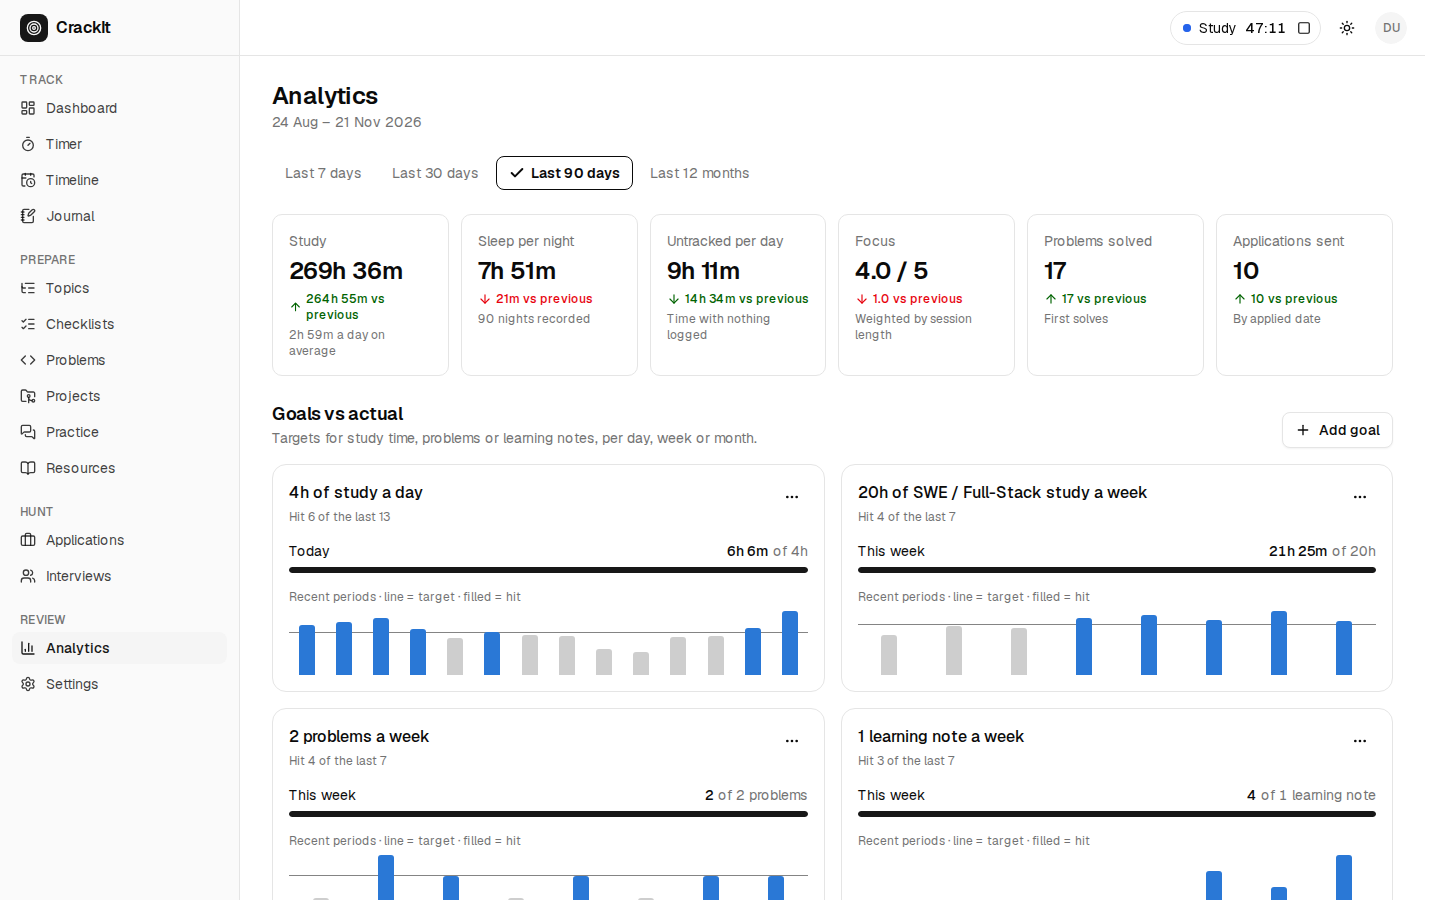
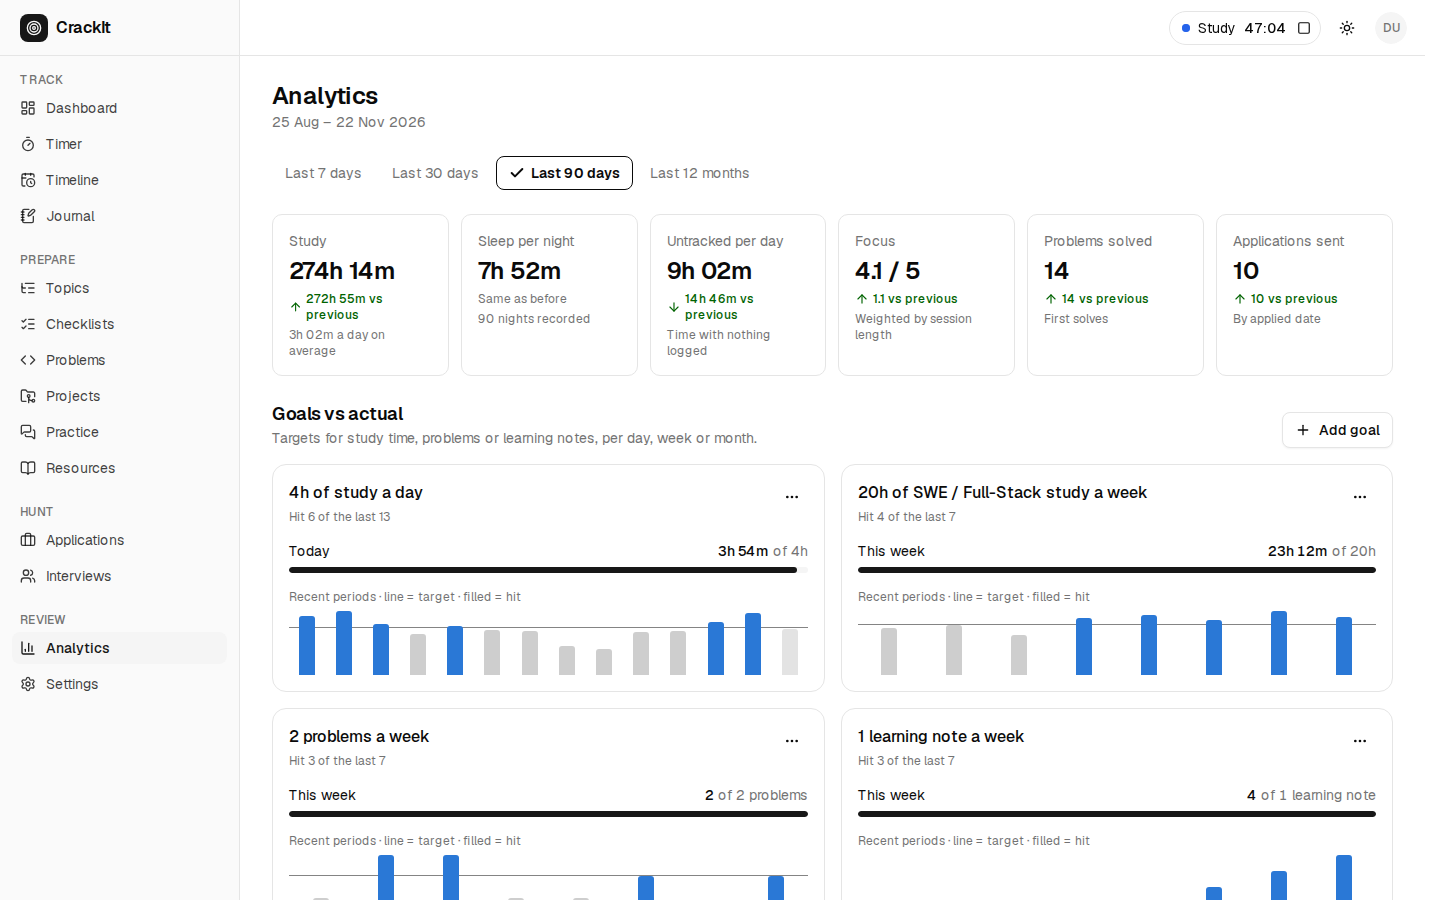
feat(tracks): replace the University Lecturer template with Data Science / ML
The second starter template is now "Data Science / ML" (statistics, machine
learning, deep learning, SQL & data wrangling, ML system design, case
studies). Guest accounts and the README demo data use it too: no lecturer
track, teaching demos, viva rounds or university applications any more.
Existing users keep any lecturer track they already added.

Screenshots regenerated from the new demo data.

diff --git a/prisma/demo-data.ts b/prisma/demo-data.ts
@@ -14,7 +14,7 @@ import { seedDefaultsForUser } from "./seed-defaults";
 /**
  * Fills an account with ~3 months of realistic, made-up prep data: time entries (with a timer
  * running now), journal, learning notes, problems, practice, applications and interviews,
- * resources, habits, projects and goals. All names (companies, universities) are fictional.
+ * resources, habits, projects and goals. All company names are fictional.
  * Dates are relative to `now`, so the data always looks current.
  *
  * Used by guest accounts (`auth/guest.ts`) and the README screenshots. Expects a user with no
@@ -74,7 +74,7 @@ async function loadContext(prisma: PrismaClient, userId: string, timezone: strin
     }),
   ]);
   const swe = tracks.find((t) => t.name === "SWE / Full-Stack")!;
-  const lecturer = tracks.find((t) => t.name === "University Lecturer")!;
+  const ds = tracks.find((t) => t.name === "Data Science / ML")!;
   const leaves = topics.filter((t) => t.children.length === 0);
 
   /** A local wall-clock time on a date key (minutes after midnight, may be < 0 or ≥ 24h). */
@@ -94,11 +94,11 @@ async function loadContext(prisma: PrismaClient, userId: string, timezone: strin
     at,
     ...random(42),
     swe,
-    lecturer,
+    ds,
     type: (name: string) => types.find((t) => t.name === name)!.id,
     leaves,
     sweLeaves: leaves.filter((t) => t.trackId === swe.id),
-    lecturerLeaves: leaves.filter((t) => t.trackId === lecturer.id),
+    dsLeaves: leaves.filter((t) => t.trackId === ds.id),
     dsaLeaves: leaves.filter((t) => t.parent?.name === "Data Structures & Algorithms"),
   };
 }
@@ -143,10 +143,10 @@ async function seedTime(prisma: PrismaClient, ctx: Ctx, today: string) {
       ...extra,
     });
   };
-  const study = (key: string, from: number, to: number, lecturer = false) => {
+  const study = (key: string, from: number, to: number, ds = false) => {
     add(key, from, to, "Study", {
-      trackId: (lecturer ? ctx.lecturer : ctx.swe).id,
-      topicId: ctx.pickOne(lecturer ? ctx.lecturerLeaves : ctx.sweLeaves).id,
+      trackId: (ds ? ctx.ds : ctx.swe).id,
+      topicId: ctx.pickOne(ds ? ctx.dsLeaves : ctx.sweLeaves).id,
       focusRating: ctx.between(3, 5),
     });
   };
@@ -197,7 +197,7 @@ async function seedJournal(prisma: PrismaClient, ctx: Ctx, today: string) {
   const plans = [
     "Two graph problems, then finish the caching chapter.",
     "Mock system design in the evening; review yesterday's notes.",
-    "Teaching demo rehearsal + one DP problem.",
+    "A/B testing chapter + one DP problem.",
     "Revise SQL indexing, apply to two roles.",
   ];
   const wins = [
@@ -265,9 +265,9 @@ async function seedJournal(prisma: PrismaClient, ctx: Ctx, today: string) {
       ["dsa", "graphs"],
     ],
     [
-      "Constructive alignment",
-      "Learning outcomes, activities and assessment should all point at the same goal.",
-      ["teaching"],
+      "Precision vs recall",
+      "Precision: how many flagged are right. Recall: how many right ones were flagged. F1 balances them.",
+      ["ml"],
     ],
     [
       "HTTP caching",
@@ -287,7 +287,7 @@ async function seedJournal(prisma: PrismaClient, ctx: Ctx, today: string) {
       data: {
         userId: ctx.userId,
         date: dateKeyToDb(learnedOn),
-        trackId: noteTags.includes("teaching") ? ctx.lecturer.id : ctx.swe.id,
+        trackId: noteTags.includes("ml") ? ctx.ds.id : ctx.swe.id,
         title,
         contentMd: content,
         confidence: ctx.between(2, 5),
@@ -354,14 +354,14 @@ async function seedPractice(prisma: PrismaClient, ctx: Ctx, today: string) {
     ["Tell me about a time you disagreed with a teammate.", false],
     ["How would you design a URL shortener?", false],
     ["Explain the event loop in Node.js.", false],
-    ["Why do you want to teach at this university?", true],
-    ["How do you assess whether students met the learning outcomes?", true],
+    ["How would you detect and handle data leakage in a model?", true],
+    ["Design an A/B test for a new checkout button.", true],
     ["What happens when you type a URL into the browser?", false],
   ];
   await prisma.practiceQuestion.createMany({
-    data: questions.map(([question, lecturer], n) => ({
+    data: questions.map(([question, ds], n) => ({
       userId: ctx.userId,
-      trackId: lecturer ? ctx.lecturer.id : ctx.swe.id,
+      trackId: ds ? ctx.ds.id : ctx.swe.id,
       question,
       answerMd: "Draft answer: structure it, give one concrete example, close with the result.",
       reviewStage: ctx.between(0, 3),
@@ -370,19 +370,19 @@ async function seedPractice(prisma: PrismaClient, ctx: Ctx, today: string) {
   });
 
   const talks = [
+    "Portfolio walkthrough: Expense Tracker",
     "Intro to Graph Algorithms",
-    "Teaching Demo: Recursion",
+    "Churn prediction model: results",
     "Database Normalization",
-    "Research talk: Code Review Practices",
-    "Teaching Demo: Big-O Notation",
-    "Operating Systems: Scheduling",
-    "Teaching Demo: Hash Tables",
-    "Intro to Networking",
+    "Tech talk: Code Review Practices",
+    "A/B test readout: onboarding flow",
+    "System design: URL shortener",
+    "Capstone demo: recommendation engine",
   ];
   await prisma.presentation.createMany({
     data: talks.map((title, n) => ({
       userId: ctx.userId,
-      trackId: ctx.lecturer.id,
+      trackId: n % 2 === 0 ? ctx.swe.id : ctx.ds.id,
       title,
       date: dateKeyToDb(shiftDateKey(today, -(talks.length - n) * 8)),
       durationMin: ctx.between(15, 30),
@@ -396,12 +396,12 @@ async function seedPractice(prisma: PrismaClient, ctx: Ctx, today: string) {
     ["SYSTEM_DESIGN", 3],
     ["BEHAVIORAL", 4],
     ["TECHNICAL", 4],
-    ["TEACHING_DEMO", 4],
+    ["SCREENING", 4],
   ];
   await prisma.mockInterview.createMany({
     data: mocks.map(([type, score], n) => ({
       userId: ctx.userId,
-      trackId: type === "TEACHING_DEMO" ? ctx.lecturer.id : ctx.swe.id,
+      trackId: type === "SCREENING" ? ctx.ds.id : ctx.swe.id,
       date: dateKeyToDb(shiftDateKey(today, -(mocks.length - n) * 10)),
       partner: ctx.pickOne(["Peer", "Mentor", "Study group"]),
       type,
@@ -415,22 +415,22 @@ const PIPELINE: ApplicationStatus[] = ["WISHLIST", "APPLIED", "OA", "INTERVIEWIN
 
 async function seedJobs(prisma: PrismaClient, ctx: Ctx, today: string) {
   // Fictional organizations only.
-  const apps: [string, "COMPANY" | "UNIVERSITY", string, ApplicationStatus, number][] = [
-    ["Northwind Labs", "COMPANY", "Software Engineer, Backend", "OFFER", 48],
-    ["Brightpath", "COMPANY", "Full-Stack Engineer", "INTERVIEWING", 30],
-    ["Lumen Analytics", "COMPANY", "Frontend Engineer", "INTERVIEWING", 21],
-    ["Cobalt Systems", "COMPANY", "Software Engineer II", "OA", 12],
-    ["Pixelforge", "COMPANY", "React Developer", "APPLIED", 6],
-    ["Riverstone Bank", "COMPANY", "Platform Engineer", "APPLIED", 3],
-    ["Orbital Health", "COMPANY", "Full-Stack Developer", "REJECTED", 40],
-    ["Quanta Software", "COMPANY", "Backend Engineer (Node.js)", "REJECTED", 35],
-    ["Eastbridge University", "UNIVERSITY", "Lecturer, Computer Science", "INTERVIEWING", 25],
-    ["Green Valley University", "UNIVERSITY", "Lecturer, CSE", "APPLIED", 9],
-    ["Harbor AI", "COMPANY", "Software Engineer", "WISHLIST", 0],
-    ["Summit Cloud", "COMPANY", "Site Reliability Engineer", "WISHLIST", 0],
+  const apps: [string, string, ApplicationStatus, number, "swe" | "ds"][] = [
+    ["Northwind Labs", "Software Engineer, Backend", "OFFER", 48, "swe"],
+    ["Brightpath", "Full-Stack Engineer", "INTERVIEWING", 30, "swe"],
+    ["Lumen Analytics", "Data Scientist", "INTERVIEWING", 21, "ds"],
+    ["Cobalt Systems", "Software Engineer II", "OA", 12, "swe"],
+    ["Pixelforge", "React Developer", "APPLIED", 6, "swe"],
+    ["Riverstone Bank", "Platform Engineer", "APPLIED", 3, "swe"],
+    ["Orbital Health", "Full-Stack Developer", "REJECTED", 40, "swe"],
+    ["Quanta Software", "Backend Engineer (Node.js)", "REJECTED", 35, "swe"],
+    ["Eastbridge Insights", "Machine Learning Engineer", "INTERVIEWING", 25, "ds"],
+    ["Green Valley Retail", "Data Analyst", "APPLIED", 9, "ds"],
+    ["Harbor AI", "Software Engineer", "WISHLIST", 0, "swe"],
+    ["Summit Cloud", "Site Reliability Engineer", "WISHLIST", 0, "swe"],
   ];
   const userId = ctx.userId;
-  for (const [name, type, role, status, appliedDaysAgo] of apps) {
+  for (const [name, role, status, appliedDaysAgo, track] of apps) {
     // Status history: walk the pipeline up to the current (or last reached) stage.
     const reached = status === "REJECTED" ? "INTERVIEWING" : status;
     const path = PIPELINE.slice(0, PIPELINE.indexOf(reached) + 1);
@@ -447,8 +447,8 @@ async function seedJobs(prisma: PrismaClient, ctx: Ctx, today: string) {
 
     // Interviews: past rounds with results, plus an upcoming one for open applications.
     const rounds: InterviewRound[] =
-      type === "UNIVERSITY"
-        ? ["WRITTEN", "TEACHING_DEMO", "VIVA"]
+      track === "ds"
+        ? ["SCREENING", "TECHNICAL", "BEHAVIORAL"]
         : ["OA", "TECHNICAL", "SYSTEM_DESIGN", "HR"];
     const count = { OFFER: 4, INTERVIEWING: 3, REJECTED: 2, OA: 1 }[status as string] ?? 0;
     const interviews = rounds.slice(0, count).map((round, r) => {
@@ -474,12 +474,12 @@ async function seedJobs(prisma: PrismaClient, ctx: Ctx, today: string) {
       data: {
         userId,
         name,
-        type,
+        type: "COMPANY",
         location: ctx.pickOne(["Dhaka", "Remote", "Singapore", "Berlin"]),
         applications: {
           create: {
             userId,
-            trackId: type === "UNIVERSITY" ? ctx.lecturer.id : ctx.swe.id,
+            trackId: track === "ds" ? ctx.ds.id : ctx.swe.id,
             role,
             source: ctx.pickOne(["LinkedIn", "Referral", "Company site", "Job board"]),
             status,
@@ -487,8 +487,7 @@ async function seedJobs(prisma: PrismaClient, ctx: Ctx, today: string) {
               status === "WISHLIST" ? null : dateKeyToDb(shiftDateKey(today, -appliedDaysAgo)),
             deadlineOn:
               status === "WISHLIST" ? dateKeyToDb(shiftDateKey(today, ctx.between(5, 20))) : null,
-            salaryRange:
-              type === "COMPANY" ? ctx.pickOne(["$60k–80k", "$70k–90k", "$80k–100k"]) : null,
+            salaryRange: ctx.pickOne(["$60k–80k", "$70k–90k", "$80k–100k"]),
             events: { create: events },
             interviews: { create: interviews },
           },
@@ -529,14 +528,14 @@ async function seedResources(prisma: PrismaClient, ctx: Ctx, today: string) {
       status: "IN_PROGRESS",
     },
     {
-      title: "Teaching at Its Best",
-      author: "Linda B. Nilson",
+      title: "Hands-On Machine Learning",
+      author: "Aurélien Géron",
       type: "BOOK",
       unitLabel: "chapters",
-      totalUnits: 24,
+      totalUnits: 19,
       completedUnits: 5,
       status: "IN_PROGRESS",
-      trackId: ctx.lecturer.id,
+      trackId: ctx.ds.id,
     },
     {
       title: "Database Internals",
@@ -657,9 +656,9 @@ async function seedProjects(prisma: PrismaClient, ctx: Ctx) {
       },
       {
         userId: ctx.userId,
-        name: "Course scheduler",
-        description: "Constraint-based timetable generator for a university department.",
-        stack: ["Python", "OR-Tools"],
+        name: "Churn predictor",
+        description: "Predicts subscription churn from usage data, with an explainability report.",
+        stack: ["Python", "scikit-learn", "pandas"],
         status: "PLANNING",
         sortOrder: 2,
       },

diff --git a/src/modules/tracks-topics/defaults.ts b/src/modules/tracks-topics/defaults.ts
@@ -88,31 +88,31 @@ export const DEFAULT_TRACKS: DefaultTrack[] = [
     ],
   },
   {
-    name: "University Lecturer",
-    description: "Lecturer recruitment: subject depth, teaching demo, research, viva",
+    name: "Data Science / ML",
+    description: "Data scientist / ML engineer roles: statistics, ML, SQL, case studies",
     color: "#eb6834", // palette slot 2 (orange)
     weeklyTargetMinutes: 10 * 60,
     topics: [
       {
-        name: "Subject Knowledge",
-        children: leaves("Core CS Courses Revision", "Advanced Topics"),
+        name: "Statistics & Probability",
+        children: leaves("Distributions", "Hypothesis Testing", "A/B Testing"),
       },
       {
-        name: "Teaching Demo",
-        children: leaves("Lesson Planning", "Slide Preparation", "Mock Demo Practice"),
+        name: "Machine Learning",
+        children: leaves("Supervised Learning", "Model Evaluation", "Feature Engineering"),
       },
       {
-        name: "Research & Publications",
-        children: leaves("Thesis Summary", "Paper Writing", "Research Proposal"),
+        name: "Deep Learning",
+        children: leaves("Neural Network Basics", "CNNs & Transformers"),
       },
       {
-        name: "Viva / Board Questions",
-        children: leaves("Teaching Philosophy", "Subject Questions", "General & Current Affairs"),
+        name: "SQL & Data Wrangling",
+        children: leaves("Window Functions", "Pandas", "Data Cleaning"),
       },
-      { name: "Written Test Preparation" },
+      { name: "ML System Design" },
       {
-        name: "Application Documents",
-        children: leaves("Academic CV", "Teaching Statement", "Research Statement"),
+        name: "Case Studies & Product Sense",
+        children: leaves("Metrics Design", "Business Case Questions"),
       },
     ],
   },

diff --git a/src/modules/settings/service.int.test.ts b/src/modules/settings/service.int.test.ts
@@ -148,15 +148,15 @@ describe("settings", () => {
   it("adds a starter template as the user's own track, once", async () => {
     const fresh = (await createTestUser()).user.id;
     await db.track.deleteMany({ where: { userId: fresh } }); // like a new sign-up
-    expect((await addTemplateTrack(fresh, "University Lecturer")).ok).toBe(true);
+    expect((await addTemplateTrack(fresh, "Data Science / ML")).ok).toBe(true);
     const [track] = await listTracks(fresh);
-    expect(track).toMatchObject({ name: "University Lecturer", isActive: true });
+    expect(track).toMatchObject({ name: "Data Science / ML", isActive: true });
     expect(track!._count.topics).toBeGreaterThan(5);
     expect(await db.topic.count({ where: { trackId: track!.id, parentId: null } })).toBeGreaterThan(
       1,
     );
 
-    const again = await addTemplateTrack(fresh, "University Lecturer");
+    const again = await addTemplateTrack(fresh, "Data Science / ML");
     expect(!again.ok && again.error.code).toBe("CONFLICT");
     expect((await addTemplateTrack(fresh, "Astronaut")).ok).toBe(false);
   });

diff --git a/e2e/register.spec.ts b/e2e/register.spec.ts
@@ -33,11 +33,11 @@ test("anyone can create an account and lands on their dashboard", async ({ page 
   // No predefined tracks: the dashboard asks what you're preparing for.
   const setup = page.getByRole("region", { name: "What are you preparing for?" });
   await expect(setup).toBeVisible();
-  await setup.getByRole("button", { name: "Use the University Lecturer template" }).click();
-  await expect(page.getByText("Added “University Lecturer”")).toBeVisible();
+  await setup.getByRole("button", { name: "Use the Data Science / ML template" }).click();
+  await expect(page.getByText("Added “Data Science / ML”")).toBeVisible();
   await expect(setup).toBeHidden();
   await page.goto("/settings?tab=tracks");
-  await expect(page.getByRole("listitem").filter({ hasText: "University Lecturer" })).toBeVisible();
+  await expect(page.getByRole("listitem").filter({ hasText: "Data Science / ML" })).toBeVisible();
   await expect(page.getByRole("listitem").filter({ hasText: "SWE / Full-Stack" })).toHaveCount(0);
 
   // With a track, the setup card is gone from Topics too.

diff --git a/e2e/topics.spec.ts b/e2e/topics.spec.ts
@@ -58,8 +58,8 @@ test("switch tracks", async ({ page }) => {
   await page.goto("/topics");
   await page
     .getByRole("navigation", { name: "Tracks" })
-    .getByRole("link", { name: /University Lecturer/ })
+    .getByRole("link", { name: /Data Science \/ ML/ })
     .click();
-  await expect(page.getByRole("heading", { name: "University Lecturer" })).toBeVisible();
-  await expect(page.getByRole("button", { name: "Actions for Teaching Demo" })).toBeVisible();
+  await expect(page.getByRole("heading", { name: "Data Science / ML" })).toBeVisible();
+  await expect(page.getByRole("button", { name: "Actions for Machine Learning" })).toBeVisible();
 });

diff --git a/prisma/seed-defaults.ts b/prisma/seed-defaults.ts
@@ -4,7 +4,7 @@ import { DEFAULT_TRACKS, type DefaultTopic } from "../src/modules/tracks-topics/
 
 /**
  * Give a user the default activity types and, only when asked, the starter tracks with their
- * topic trees (SWE / Full-Stack, University Lecturer). New sign-ups get no tracks: they pick
+ * topic trees (SWE / Full-Stack, Data Science / ML). New sign-ups get no tracks: they pick
  * their own targets (or a template) on first visit.
  * Idempotent: safe to run repeatedly; existing rows (matched by name) are left untouched.
  * Used by `pnpm db:seed`, `pnpm user:create`, sign-up and tests.

diff --git a/e2e/dashboard.spec.ts b/e2e/dashboard.spec.ts
@@ -13,7 +13,7 @@ test("dashboard shows today, weekly goals and the 7-day chart", async ({ page })
   }
   await expect(page.getByRole("img", { name: /^Today:/ })).toBeVisible();
   await expect(page.getByRole("meter", { name: "SWE / Full-Stack weekly goal" })).toBeVisible();
-  await expect(page.getByRole("meter", { name: "University Lecturer weekly goal" })).toBeVisible();
+  await expect(page.getByRole("meter", { name: "Data Science / ML weekly goal" })).toBeVisible();
 
   // Table view mirrors the chart (7 days + header).
   await page.getByText("Show as table").click();

diff --git a/scripts/create-user.ts b/scripts/create-user.ts
@@ -2,7 +2,7 @@
  * Create a login account from the command line (people can also sign up at /register).
  *   pnpm user:create --email you@example.com [--name "Your Name"] [--timezone Asia/Dhaka]
  *                    [--starter-tracks]
- * --starter-tracks also adds the SWE / Full-Stack and University Lecturer tracks with their
+ * --starter-tracks also adds the SWE / Full-Stack and Data Science / ML tracks with their
  * topic roadmaps; without it the account starts with no tracks, like a sign-up.
  * Password is prompted (hidden) or read from CRACKIT_PASSWORD.
  */

diff --git a/src/modules/dashboard/service.int.test.ts b/src/modules/dashboard/service.int.test.ts
@@ -11,7 +11,7 @@ describe("getDashboard", () => {
   it("aggregates today, the week by track, the last 7 days and the streak", async () => {
     const ctx = await createTestUser(); // Asia/Dhaka (UTC+6), day starts 04:00
     const swe = ctx.track("SWE / Full-Stack").id;
-    const lect = ctx.track("University Lecturer").id;
+    const lect = ctx.track("Data Science / ML").id;
     const study = ctx.activity("Study").id;
     // "now" = Thu 2026-11-05 18:00 local (12:00Z). Week starts Mon 2026-11-02.
     const now = new Date("2026-11-05T12:00:00Z");

diff --git a/e2e/settings.spec.ts b/e2e/settings.spec.ts
@@ -42,7 +42,7 @@ test("profile, tracks and activity types", async ({ page }) => {
   await expect(
     dialog.getByText("Line 2: “graphs” is listed twice at the same level."),
   ).toBeVisible();
-  await dialog.getByRole("button", { name: "University Lecturer" }).click();
+  await dialog.getByRole("button", { name: "Data Science / ML" }).click();
   await expect(dialog.getByText(/^\d+ topics$/)).toBeVisible();
   await page.keyboard.press("Escape");
 

diff --git a/src/modules/jobs/components/job-forms.tsx b/src/modules/jobs/components/job-forms.tsx
@@ -236,7 +236,7 @@ export function ApplicationForm({
           required
           maxLength={200}
           defaultValue={application?.role ?? ""}
-          placeholder="e.g. Software Engineer II / Lecturer, CSE"
+          placeholder="e.g. Software Engineer II / Data Scientist"
           aria-invalid={Boolean(err?.role)}
         />
       </Field>

diff --git a/src/modules/practice/service.int.test.ts b/src/modules/practice/service.int.test.ts
@@ -59,7 +59,7 @@ describe("presentations", () => {
 
 describe("question bank", () => {
   it("schedules tomorrow, keeps the schedule on edit, and follows remembered / forgot", async () => {
-    const lecturer = ctx.track("University Lecturer").id;
+    const lecturer = ctx.track("Data Science / ML").id;
     expect(
       (
         await saveQuestion(
